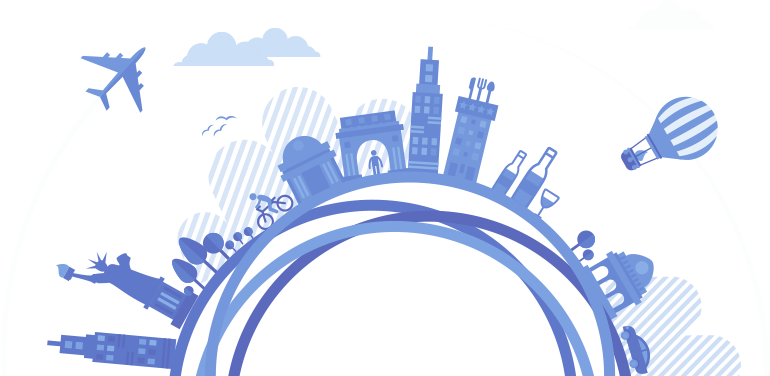
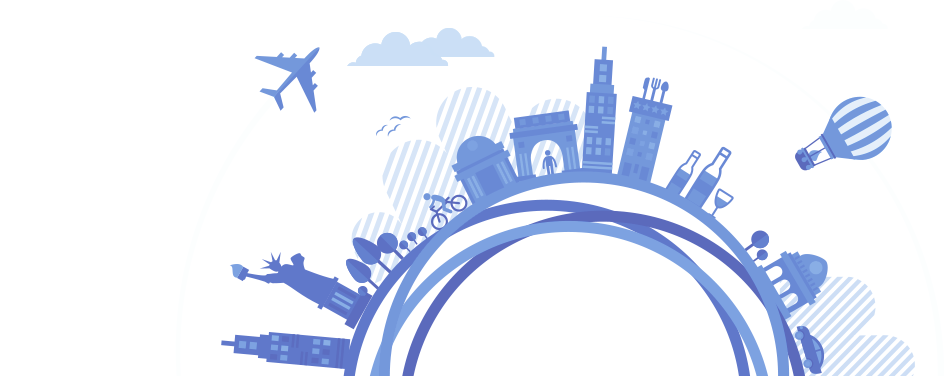
m

Changed region(s): [[0.0623, 0.0585, 0.9662, 1.0], [0.8104, 0.234, 0.9662, 0.4681], [0.0935, 0.117, 0.187, 0.2926]]

diff --git a/index.html b/index.html
@@ -39,15 +39,14 @@
 				<div class="our_business">
 					<img class="offset_fix our_business_title" src="img/title-our-business.png" data-rate="0.2" data-o-width="267" data-o-height="33" data-pos="top">
 					<img class="offset_fix our_business_img" src="img/our-business.png" data-rate="0.9" data-o-width="944" data-o-height="324" data-pos="center">
-					<p class="offset_fix our_business_text" data-rate="0.7" data-o-width="780" data-o-height="75" data-pos="bottom">Tourstock Inc. is an OTA based in New York USA, with offices in Hong Kong, Beijing and Shenzhen, China. We’re a team of travel-loving engineers and developers, specializing in providing Chinese travelers with all-around travel services for their overseas tours.</p>
+					<p class="offset_fix our_business_text text" data-rate="0.7" data-o-width="780" data-o-height="75" data-pos="bottom">Tourstock Inc. is an OTA based in New York USA, with offices in Hong Kong, Beijing and Shenzhen, China. We’re a team of travel-loving engineers and developers, specializing in providing Chinese travelers with all-around travel services for their overseas tours.</p>
 				</div>
 			</section>
 			<section data-index="2" class="section people_section" id="peopleSction">
 				<div class="our_people">
-					<div class="people_white_space"></div>
-					<h1 class="our_people_title"></h1>
-					<p class="our_people_text">We are a team of travel-loving engineers, program and business developers. We are well-equipped with<br/>expertise in e-commerce, network technology, and online-travel business. Most important of all, we understand<br/>Chinese consumers and have extensive experiences and connections in the travel industry in China.</p>
-					<p class="our_people_text">We “hand-pick” and “stock” travel services/products that are most<br/>interesting to Chinese travelers, aiming to become the ultimate tour<br/>warehouse for the ever growing number of Chinese travelers who<br/>just love, love, and love to see the world. </p>
+					<img class="offset_fix our_people_title" src="img/title-our-people.png" data-rate="0.18" data-o-width="233" data-o-height="33" data-pos="top">
+					<p class="offset_fix our_people_text text" data-rate="0.7" data-o-width="780" data-o-height="260" data-pos="center">We are a team of travel-loving engineers, program and business developers. We are well-equipped with<br/>expertise in e-commerce, network technology, and online-travel business. Most important of all, we understand<br/>Chinese consumers and have extensive experiences and connections in the travel industry in China.<br/><br/><br/>We “hand-pick” and “stock” travel services/products that are most<br/>interesting to Chinese travelers, aiming to become the ultimate tour<br/>warehouse for the ever growing number of Chinese travelers who<br/>just love, love, and love to see the world. </p>
+					<img class="offset_fix our_people_img" src="img/people.png" data-rate="0.9" data-o-width="944" data-o-height="376" data-pos="bottom">
 				</div>
 			</section>
 			<section data-index="3" class="section partner_section" id="partnerSection">
@@ -191,9 +190,9 @@
 						tW = winW * rate < toW ? winW * rate : toW,
 						tH = winW * rate < toW ? toH * rate : toH,
 						posMap = {
-							'top': {'left': (winW - tW) / 2, 'top': 30},
+							'top': {'left': (winW - tW) / 2, 'top': 0},
 							'center': {'left': (winW - tW) / 2, 'top': (winH - tH) / 2},
-							'bottom': {'left': (winW - tW) / 2, 'bottom': 30}
+							'bottom': {'left': (winW - tW) / 2, 'bottom': 0}
 						}
 
 					_this

diff --git a/css/page/tourstock.css b/css/page/tourstock.css
@@ -34,25 +34,26 @@
 .arrow_down_icon {position: absolute;display: block;left: 8px;top: 30px;width: 70%;opacity: 0.7;filter: alpha(opacity: 70);max-width: 43px;}
 
 /* our business */
-.our_business {width: 950px;margin: 0 auto;}
 .our_business_title {position: absolute;width: 20%;max-width: 267px;}
 .our_business_img {position: absolute;width: 90%;max-width: 944px;}
-.our_business_text {position: absolute;width: 70%;line-height: 26px;color: #fff;max-width: 780px;}
+.our_business_text {position: absolute;width: 70%;max-width: 780px;}
+
+.text {line-height: 26px;color: #fff;z-index: 10;}
 @media screen and (min-width: 640px) {
-	.our_business_text {
+	.text {
 		font-size: 1em;
 	}
 }
 @media screen and (max-width: 640px) {
-	.our_business_text {
+	.text {
 		font-size: 0.6em;
 	}
 }
 
 /* our people */
-.our_people {position: relative;width: 1000px;height: 100%;margin: 0 auto;background: url(../../img/people.png) no-repeat right bottom;}
-.our_people_title {width: 235px;height: 34px;margin: 0 auto;background-repeat: no-repeat;background-position: -766px -788px;}
-.our_people_text {position: relative;z-index: 98;padding-top: 95px;font-size: 15px;line-height: 26px;color: #fff;}
+.our_people_title {position: absolute;width: 18%;max-width: 233px;height: 34px;}
+.our_people_text {position: absolute;width: 70%;max-width: 780px;}
+.our_people_img {position: absolute;width: 90%;max-width: 944px;}
 
 /* our partner */
 .our_partner {position: relative;width: 1000px;height: 100%;margin: 0 auto;}
